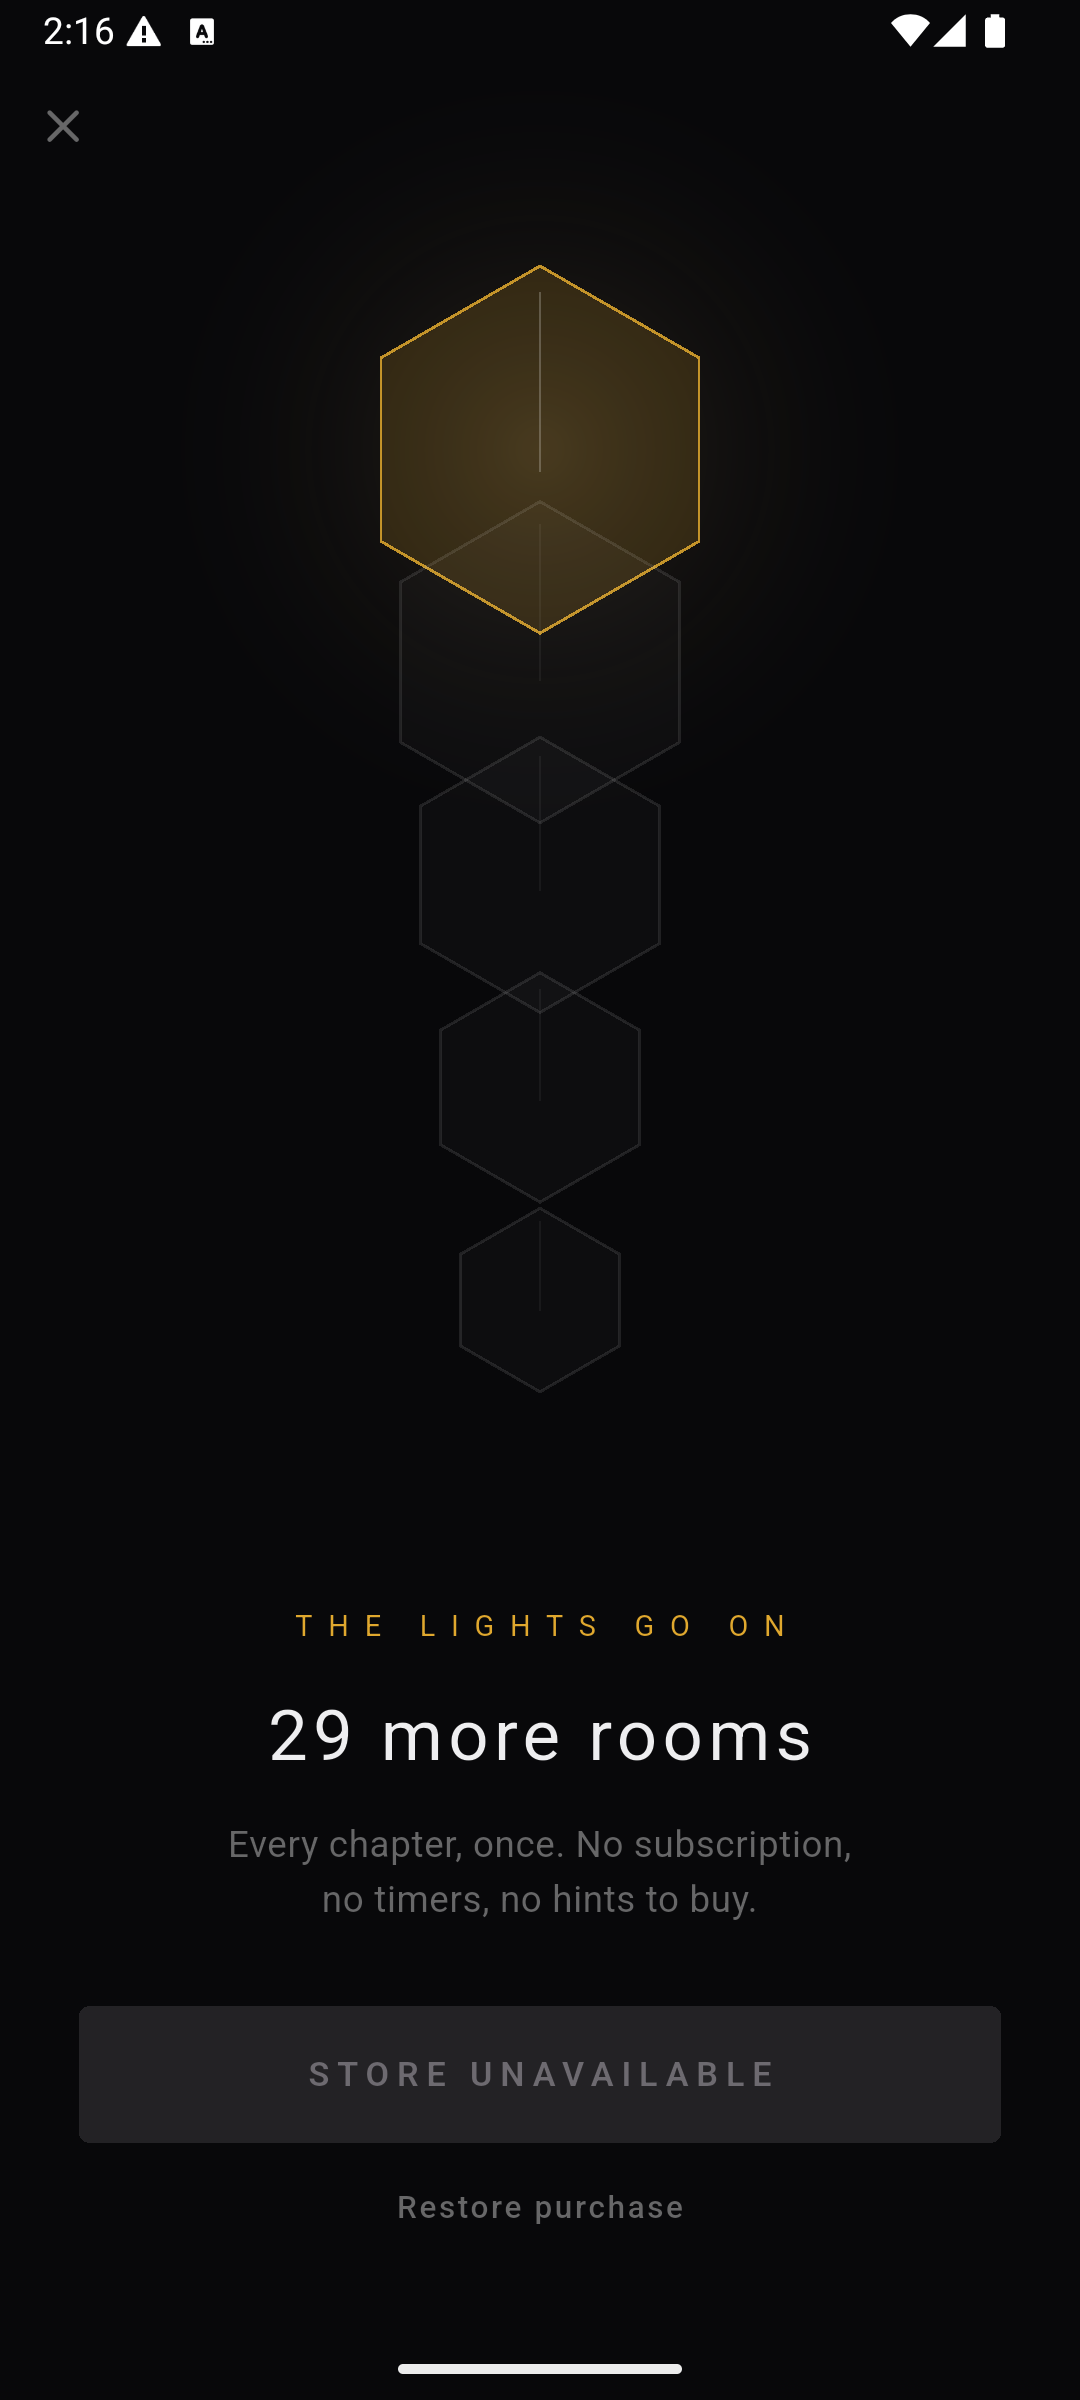
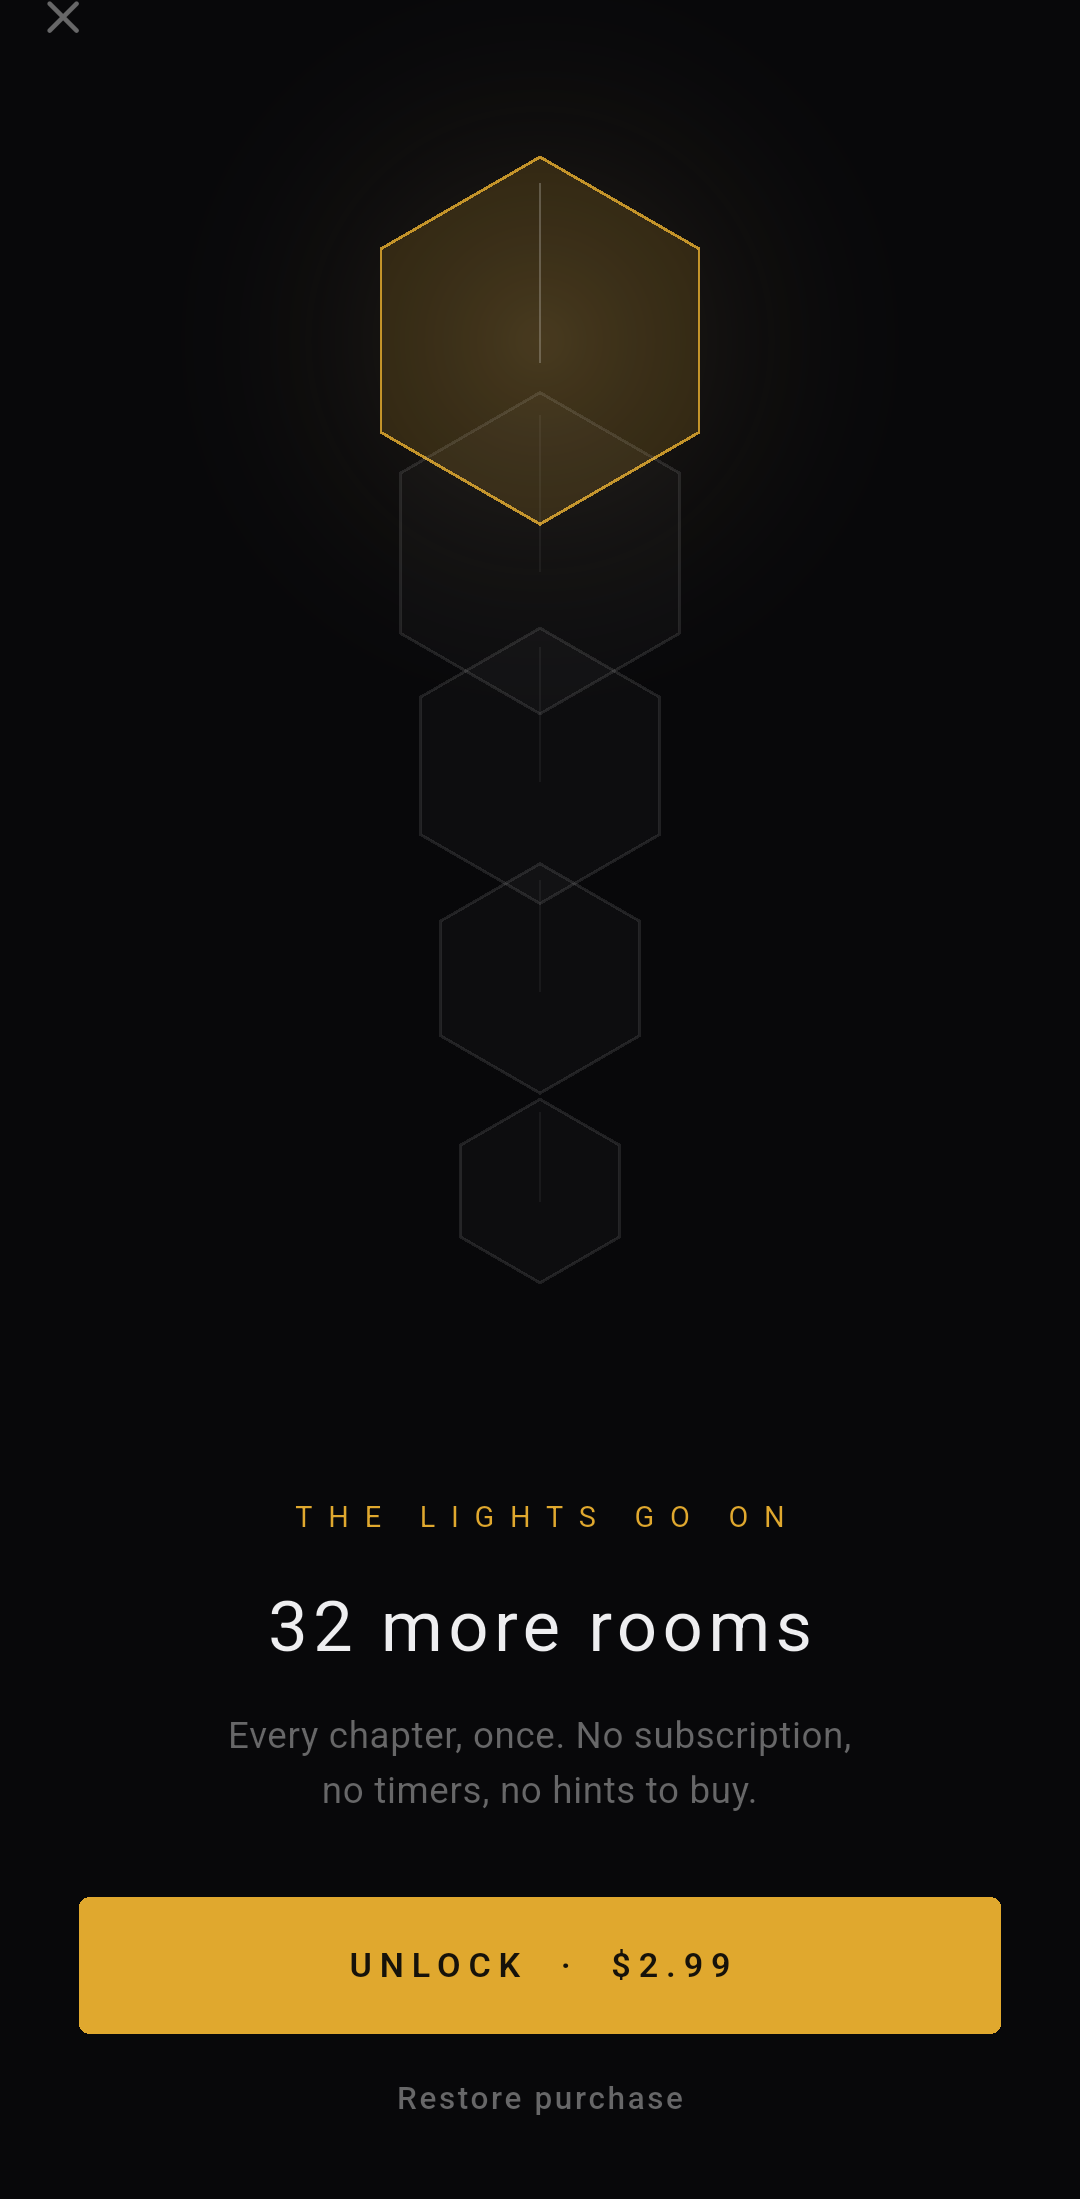
The Apple paperwork was done two days ago; the handoff still called it the blocker
Checked the account rather than the status file. Paid Apps Agreement is
Active, the bank account is Active, and both tax forms — W-8BEN and the
Certificate of Foreign Status — were submitted Aug 4 and are Active. The
rewrite pushed an hour ago led with all of that as the one red blocker,
because it was built from status.md and the repo and never opened App Store
Connect. Same failure as the signing key: a claim treated as a fact.

What actually gates submission, read off the account today: the in-app
purchase has no review screenshot and Apple requires the first
non-consumable to ship with a new app version; App Privacy is filled in but
never published; App Review contact details are empty; the app-level DSA
trader status says non-trader while the IAP is set to sell into 175
countries; and the version has build 13 attached though 14 and 15 exist.

Age rating, content rights, pricing, availability and export compliance are
all done — this file called three of them outstanding.

Shot('07-unlock') closes the first of those. The paywall was the one screen
the capture harness never covered, so its screenshot was taken by hand in
the old way and was two days stale. _ShotStore overrides canBuy and price
only: a keyless build has nothing to sell and renders "STORE UNAVAILABLE",
which is the one thing an IAP review screenshot must not show. It grants
nothing — unlocked is entitled || !canBuy, so forcing canBuy true makes the
[…]

diff --git a/lib/shots.dart b/lib/shots.dart
@@ -8,6 +8,7 @@ import 'map_screen.dart';
 import 'menagerie.dart';
 import 'progress.dart';
 import 'store.dart';
+import 'unlock_screen.dart';
 import 'workshop.dart';
 import 'workshop_screen.dart';
 
@@ -35,7 +36,8 @@ class Shot {
       this.pose,
       this.map = false,
       this.menagerie = false,
-      this.workshop = false});
+      this.workshop = false,
+      this.unlock = false});
   final String label;
   final int? level;
 
@@ -44,6 +46,29 @@ class Shot {
   final bool map;
   final bool menagerie;
   final bool workshop;
+  final bool unlock;
+}
+
+/// The paywall, shown as a customer sees it.
+///
+/// A build with no RevenueCat keys has nothing to sell, so the real screen
+/// renders its button as "STORE UNAVAILABLE" — which is exactly the wrong
+/// picture for the App Store Connect **in-app purchase review screenshot**,
+/// whose whole job is to show the purchase actually on offer.
+///
+/// This overrides only the two getters the screen reads. It grants nothing:
+/// `Store.unlocked` is `entitled || !canBuy`, so forcing `canBuy` true makes
+/// the app *more* locked, not less, and `computeUnlocked` is untouched. The
+/// money path in `store.dart` is deliberately not modified for a screenshot.
+///
+///   flutter run --release --dart-define=SHOT=true --dart-define=SHOT_PRICE='$2.99'
+class _ShotStore extends Store {
+  @override
+  bool get canBuy => true;
+
+  @override
+  String get price =>
+      const String.fromEnvironment('SHOT_PRICE', defaultValue: '\$2.99');
 }
 
 const shots = <Shot>[
@@ -60,6 +85,10 @@ const shots = <Shot>[
   // The Workshop mid-build, so the piece bar and the depth dial are both
   // visible doing something.
   Shot('06-workshop', workshop: true),
+  // Not part of the store listing set — this one exists for the App Store
+  // Connect IAP review screenshot, which was previously taken by hand and had
+  // gone two days stale by the time anyone looked at it.
+  Shot('07-unlock', unlock: true),
 ];
 
 /// Plausible progress, so the map reads as a game in play rather than an empty
@@ -91,11 +120,14 @@ class _ShotRunnerState extends State<ShotRunner> {
   int _i = 0;
   late final Progress _campaign = _sampleCampaign();
   late final Progress _daily = _sampleDaily();
+  late final Store _shotStore = _ShotStore();
 
   @override
   Widget build(BuildContext context) {
     final shot = shots[_i % shots.length];
-    final Widget screen = shot.workshop
+    final Widget screen = shot.unlock
+        ? UnlockScreen(store: _shotStore)
+        : shot.workshop
         ? WorkshopScreen(
             puzzle: workshopPuzzles[1], suppressPanel: true)
         : shot.menagerie

diff --git a/HANDOFF.md b/HANDOFF.md
@@ -21,29 +21,52 @@ Verified on the `Jhere` PC, 2026-08-06 — every number below was measured, not 
 | `flutter test` | ✅ **94 passing** |
 | Campaign | **47 levels across 5 chapters** (`chapterStarts = [0, 15, 31, 40, 43]` in `progress.dart`), plus a daily room and endless mode |
 | Free / paid split | CHAPTER I = **15 levels free**, chapters II–V (**32 levels**) behind the one-time RevenueCat unlock |
-| iOS | ✅ **Signing solved 2026-08-04.** Build **#13** succeeded (6m 2s) and uploaded to App Store Connect |
+| iOS | ✅ **Signing solved 2026-08-04.** **15 builds uploaded**, the newest two on Aug 5. All read *Ready to Submit*; the version currently has **#13** attached |
 | Privacy policy | ✅ **live** — `https://jhereedev.github.io/intwolight/privacy.html` returns **200** (re-checked 2026-08-06) |
 
-## 🔴 THE ONLY BLOCKER: two Apple forms and a bank account
+## ✅ The Apple paperwork is DONE. Read this before believing any older note.
 
-Paid Applications is **Pending User Info**. Until it goes Active no product exists, so the
-RevenueCat paywall has nothing to sell — a tester reaching it gets a button that does nothing.
-Five minutes of Jhere's time, unlocking a multi-day Apple process. **There are TWO forms**, both
-tagged "Paid Apps", and completing one does not clear the banner:
+**Checked in the account itself on 2026-08-06, not inferred from a status file:**
 
-1. **U.S. Form W-8BEN** — Part I is filled. Remaining: Line 5 (U.S. TIN) **blank**; Line 9
-   **checked** (resident of the Philippines); Line 10 Article **`8(1)`**, rate **`0`**,
-   ☑ *Income from the sale of applications*.
-2. **U.S. Certificate of Foreign Status** — Apple's own form, no treaty section. Tick the
-   declaration (no U.S. employees, no U.S. equipment — all true), **Title = `Owner`**.
+| Business → Agreements | |
+|---|---|
+| **Paid Apps Agreement** | ✅ **Active**, Jul 23 2026 – May 17 2027 |
+| Free Apps Agreement | ✅ Active, same dates |
+| Bank account | ✅ **Active** — Philippines, PHP, royalties in USD |
+| **U.S. Form W-8BEN** | ✅ **Active**, submitted **Aug 4 2026** |
+| **U.S. Certificate of Foreign Status** | ✅ **Active**, submitted **Aug 4 2026** |
+| Digital Services Act (account level) | ✅ Active, 27 countries |
 
-> ⚠ **Article 8, not Article 7.** The Apple-forum advice says "Article 7 paragraph 1", copied from
-> OECD-model treaties. The **US–Philippines treaty is a 1976 agreement with its own numbering**
-> (<https://www.irs.gov/pub/irs-trty/philip.pdf>): Article 7 is *Income from Real Property*,
-> Article 8 is Business Profits, Article 13 is Royalties. Citing Article 7 claims a treaty benefit
-> for rental income on land. Fallback if 8(1) is challenged: `13(2)(a)` at `15`%. Both beat the 30%
-> statutory default that applies if Line 10 is left empty. A wrong entry costs a resubmission,
-> not the account.
+> **This section said the opposite for two days**, and an earlier rewrite of this very file
+> repeated it — because both were built from `status.md` and the repo, and neither opened the
+> account. **The forms were filed on Aug 4 and everything went Active.** The AIOS rule that a
+> `status.md` is a claim rather than a fact exists for precisely this; so does the Article 8 tax
+> research, which is now spent and lives in the git history if it is ever needed again.
+
+**The in-app purchase exists and is configured:** `In Two Lights Pro`,
+product ID **`com.jhere.intwolights.pro`**, non-consumable, priced, available in 175 countries,
+display name "All Chapters", description *"Chapters II–V: 32 more rooms, one payment."*
+Status **Prepare for Submission**. The entitlement string matches `Store.entitlement`
+in `lib/store.dart`.
+
+## 🔴 What actually blocks submission
+
+1. **The IAP has no review screenshot.** `Review Information → Screenshot` is empty and it is
+   required. Apple also states *"your first non-consumable in-app purchase must be submitted with
+   a new app version"* — so this one empty field gates the entire 1.0 submission.
+   **Capture it with `Shot('07-unlock')` in the harness** (see below), never by hand.
+2. **App Privacy is filled in but NOT published.** Every declaration is entered — Purchase History
+   and User ID, both *used for app functionality*, neither linked to identity — and the page still
+   shows a live **Publish** button. Nothing has been submitted to Apple.
+3. **App Review contact information is empty.** Personal data; Jhere enters this.
+4. **DSA trader status is "non-trader" at the app level.** App Information reads *"This developer
+   has identified itself as a non-trader for this app."* The **account-level** DSA registration is
+   Active, but these are different things, and the app is set to sell an IAP into 175 countries
+   including the EU. **Resolve what this means for EU availability before release** — the flow
+   (`/business?collectContactInfo=true`) collects contact details that are then shown publicly, so
+   it is a decision, not a click.
+5. **The version has build 13 attached, but builds 14 and 15 exist** (both uploaded Aug 5 2026,
+   after the last commit). Decide which one ships.
 
 ## Then, in order
 
@@ -61,16 +84,45 @@ tagged "Paid Apps", and completing one does not clear the banner:
 ### Knobs that need a real player, not a terminal
 `_settleDelay` 900ms · `_hintDelay` 60s · the drone's floor/duck/curve in `tool/gen_audio.py`.
 
-## Still gating "Add for Review" on the App Store listing
+## The App Store listing — what is already done
 
-Build #13 is attached, six screenshots at 1242×2688 are in, the description reads 47 rooms, and
-`Sign-in required` is correctly unchecked. **Not done:** App Review contact details (personal data
-— Jhere enters these), App Privacy, Age Rating, Pricing and Availability, and the IAP itself,
-which is blocked by Paid Applications above.
+**Verified in App Store Connect 2026-08-06. Several items this file previously called outstanding
+are finished; do not redo them.**
+
+| | |
+|---|---|
+| Age rating | ✅ **4+**, 172 countries. Brazil ALL, Korea override, Vietnam 00+ |
+| Content rights | ✅ "does not contain, show, or access third-party content" |
+| Pricing and availability | ✅ base **United States (USD)**, price set, **175 countries**, tax category *App Store software* |
+| Screenshots | ✅ 6 of 10, 6.5" display |
+| Description / promo text / keywords | ✅ in, and reading 47 rooms |
+| Privacy policy URL | ✅ live, 200 |
+| `Sign-in required` | ✅ correctly **unchecked** — the game has no accounts |
+| Export compliance | ✅ **not an issue** — all eight builds read *Ready to Submit*, none says "Missing Compliance" |
+
+Everything still outstanding is in the numbered list above.
 
 > ⚠ **Release option currently reads "Manually release this version"** — set by a misdirected
 > click, not a decision. Defensible (it puts go-live under Jhere's control against a 09-30 window)
 > but it was not intentional. Confirm before submitting.
+
+## Regenerating the IAP review screenshot
+
+```bash
+export PATH="/d/flutter/bin:$PATH"                      # Jhere PC
+flutter emulators --launch Medium_Phone_API_36.0
+flutter run -d emulator-5554 --release --dart-define=SHOT=true
+# tap through to shot 07-unlock, then:
+adb exec-out screencap -p > press/unlock-screen.png
+```
+
+`Shot('07-unlock')` renders the real `UnlockScreen` against `_ShotStore`, a two-getter subclass
+that lives in `lib/shots.dart`. **It exists because a keyless build has nothing to sell**, so the
+genuine screen renders its button as "STORE UNAVAILABLE" — the one thing an IAP review screenshot
+must not show. It grants nothing: `unlocked` is `entitled || !canBuy`, so forcing `canBuy` true
+makes the app *more* locked, and `computeUnlocked` in `store.dart` is untouched. **The money path
+was not modified for a screenshot, and should not be.** Override the price with
+`--dart-define=SHOT_PRICE='$4.99'` when the real tier is decided.
 
 ## Open questions and warnings
 
@@ -88,6 +140,9 @@ which is blocked by Paid Applications above.
   Delete it or re-point it.
 - ⚠ **`UIRequiresFullScreen` is deprecated** — slated to stop exempting apps on iPadOS 26+. Fine
   for 1.0; after Shipaton it is real iPad landscape or `TARGETED_DEVICE_FAMILY = 1`.
+- ⚠ **Build warning `90068: MinimumOSVersion too low`** — the app declares **13.0** and Apple
+  requires **15.0 or later from Spring 2027** to upload or submit. A warning, not an error: builds
+  14 and 15 carry it and were still accepted. Not a 1.0 problem; it becomes one next year.
 - ⚠ **The ASC issuer ID is recorded nowhere.** Capture it next time you are in Codemagic.
 - ⚠ **App Store Connect maintenance 2026-08-08, 6am PDT, up to two hours.** Do not plan a
   submission around that morning.
@@ -386,11 +441,12 @@ sarimanok and has run 13 builds; #13 succeeded and uploaded to App Store Connect
 is a Mac, so Codemagic remains the only route to an iOS build.** What is *not* resolved is
 **when it fires** — see the triggering warning in `▶ RESUME HERE`.
 
-**2. Never confirmed on real hardware.** Emulator only (`Medium_Phone_API_36.0`, `Pixel_10_Pro`)
-plus whatever TestFlight build #13 has been installed on — **and nobody has recorded installing
-it.** `kalyedex` was built, tested, tagged and store-ready without ever running on a device; do not
-repeat that. **Installing #13 from TestFlight on a real iPhone is the cheapest way to close this**,
-and it is worth doing before App Review rather than after.
+**2. ✅ MOSTLY RESOLVED — it has run on real hardware.** This entry said "never run on real
+hardware", which the TestFlight numbers disprove: builds 6–15 carry **installs and sessions**
+(build 13 alone: 4 installs, 13 sessions). `kalyedex` was built, tested, tagged and store-ready
+without ever running on a device — that trap was avoided here. What is still missing is a **written
+account of what those sessions found**; installs are not a playtest, and the five-tester run in
+`press/playtest-brief.md` is still the thing that closes it.
 
 **3. No validated difficulty metric — and the failure is instructive.**
 A claim was made that hand-authored level 1 (Tee) was *under-constrained*. It was inferred from
